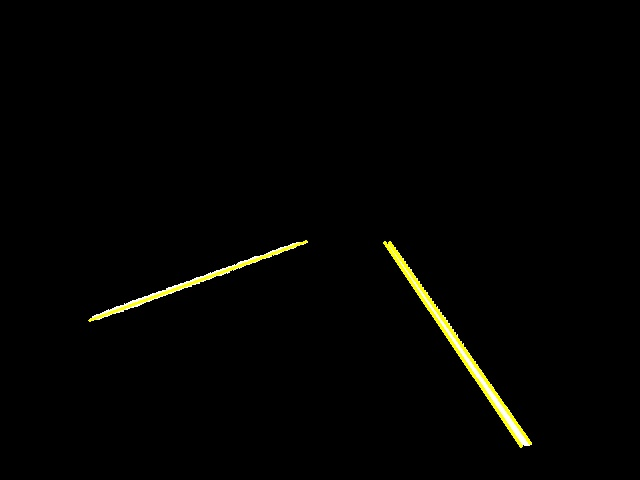
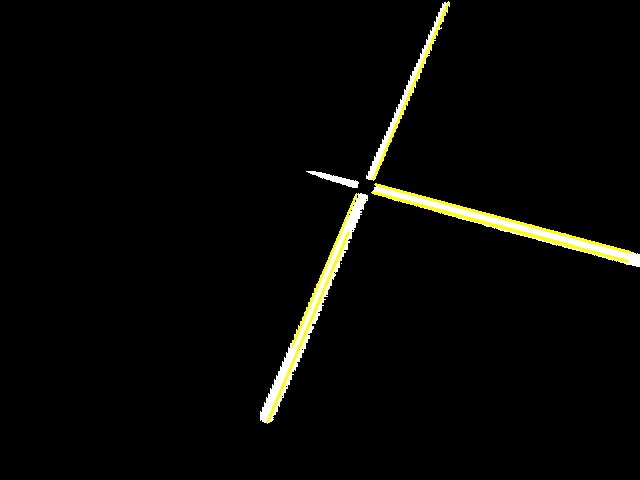
FEAT :: 평행선 긋기

diff --git a/version_4/yun.py b/version_4/yun.py
@@ -1,6 +1,23 @@
 import cv2
 import numpy as np
 
+def draw_line_through_center(img, slope):
+    h, w = img.shape[:2]
+    cx, cy = w // 2, h // 2
+
+    # y절편 계산
+    b = cy - slope * cx
+
+    # 두 점의 좌표를 계산
+    x_start = 0
+    y_start = int(slope * x_start + b)
+    x_end = w
+    y_end = int(slope * x_end + b)
+
+    # 선분을 초록색으로 그리기
+    cv2.line(img, (x_start, y_start), (x_end, y_end), (0, 255, 0), 2)
+
+
 def draw_bounding_box(image, points):
     x, y, w, h = cv2.boundingRect(points)
     cv2.rectangle(image, (x, y), (x + w, y + h), (0, 255, 0), 2)
@@ -66,9 +83,8 @@ def detect_red_cross_lines(image):
                 dy = y2 - y1
                 slope = dy / dx
                 angle = np.arctan(slope) * 180 / np.pi
-                int_angle = int(angle)
-                angles.append(int_angle)  # 각도 값 저장
-                print("Line angle:", int_angle)       
+                float_angle = round(angle, 2) #소수점 2자리까지
+                angles.append(float_angle)  # 각도 값 저장
 
     return output, angles
 
@@ -89,14 +105,16 @@ def main():
     # image_path = 'center_shot.png'
     image_path = 'test_4.png'
     result_image_path = "center_shot.png"
+    capture_path = "yunjong.jpg"
 
     save_point = []
     
-    cap = cv2.VideoCapture(2)
+    cap = cv2.VideoCapture(0)
 
     while True:
 
         ret, frame = cap.read()
+
         
         result_img = cv2.imread(result_image_path)
         rh, rw, _ = result_img.shape
@@ -120,21 +138,44 @@ def main():
         cv2.imshow('red crossline img',crossline_img)
 
 
+
+
+        result_cap_img = cv2.imread(capture_path)
+        
+
+
         key = cv2.waitKey(1)
         if key == ord('q'):
             break
         if key == ord('c'):
-            cv2.imwrite("yunjong.jpg", crossline_img)
+            cv2.imwrite(capture_path, crossline_img)
             for angle in angles:
-                if angle not in save_point:
+                if not any(int(angle) // 10 == int(existing_angle) // 10 for existing_angle in save_point):
                     save_point.append(angle)
+
+            if len(save_point) >= 2:
+                draw_angle = save_point[0]
+                draw_angle2 = save_point[1]
+
+                slope = np.tan(draw_angle * np.pi / 180.0)
+                slope2 = np.tan(draw_angle2 * np.pi / 180.0)
+
+                draw_line_through_center(result_cap_img, slope)
+                draw_line_through_center(result_cap_img, slope2)
+                    
+                # Show the image after drawing lines
+                cv2.imshow("result_cap", result_cap_img)
+
 
             
 
+    # draw_angle = save_point[0]
+    # draw_angle2 = save_point[1]
+
+    
+
     cap.release()
     cv2.destroyAllWindows()
-
-    print("저장된 값 : ", save_point)
 
 if __name__ == "__main__":
     main()

diff --git a/version_4/slope_line.py b/version_4/slope_line.py
@@ -28,12 +28,14 @@ w = w // 2
 h = h // 2
 image = cv2.resize(img, (w, h))
 
-angle =56 # 각도 대입
+angle =54.98 # 각도 대입 54.98, -26.19
+angle2 =-26.19 # 각도 대입 54.98, -26.19
 slope = np.tan(angle * np.pi / 180.0)
-draw_line_through_center(image, slope)
+slope2 = np.tan(angle2 * np.pi / 180.0)
 
 # 이미지에 기울기가 x인 선분을 그리기
 draw_line_through_center(image, slope)
+draw_line_through_center(image, slope2)
 
 # 결과 이미지 출력
 cv2.imshow("Result", image)
